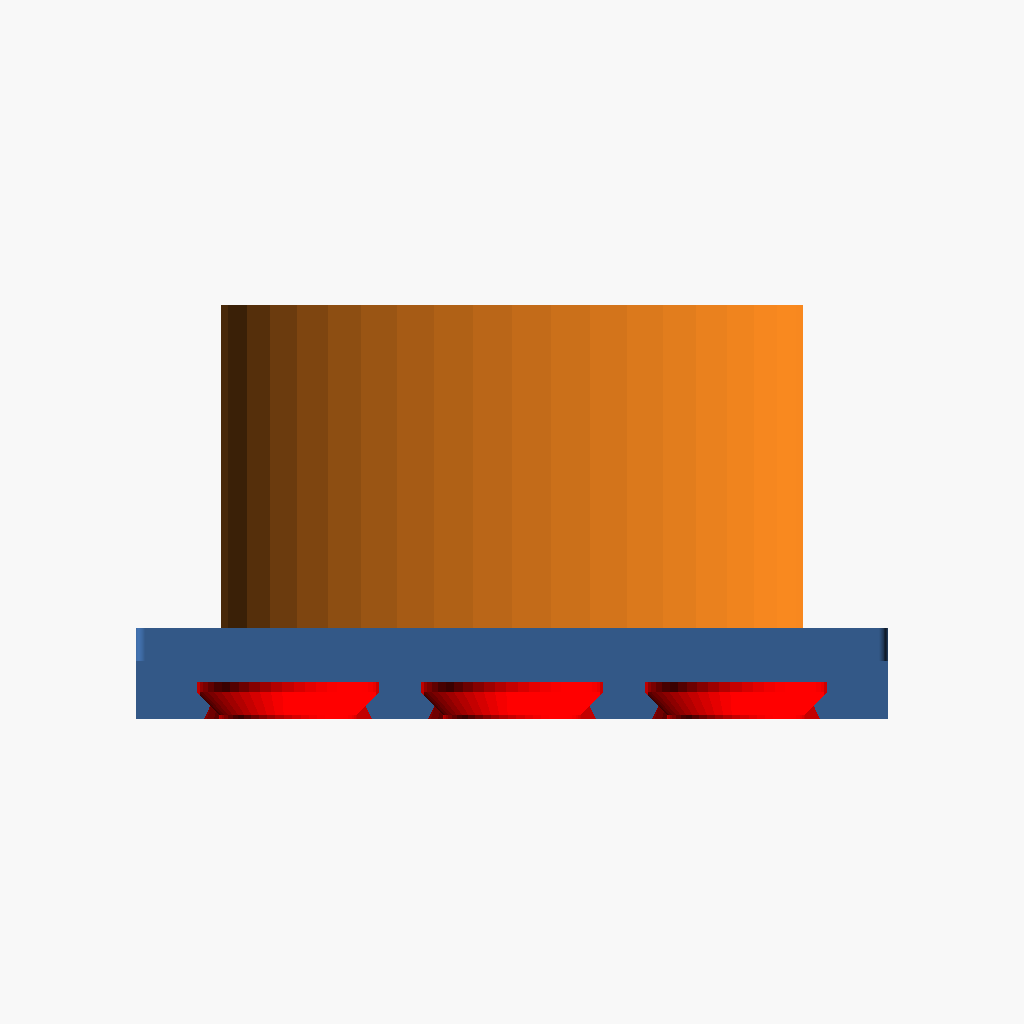
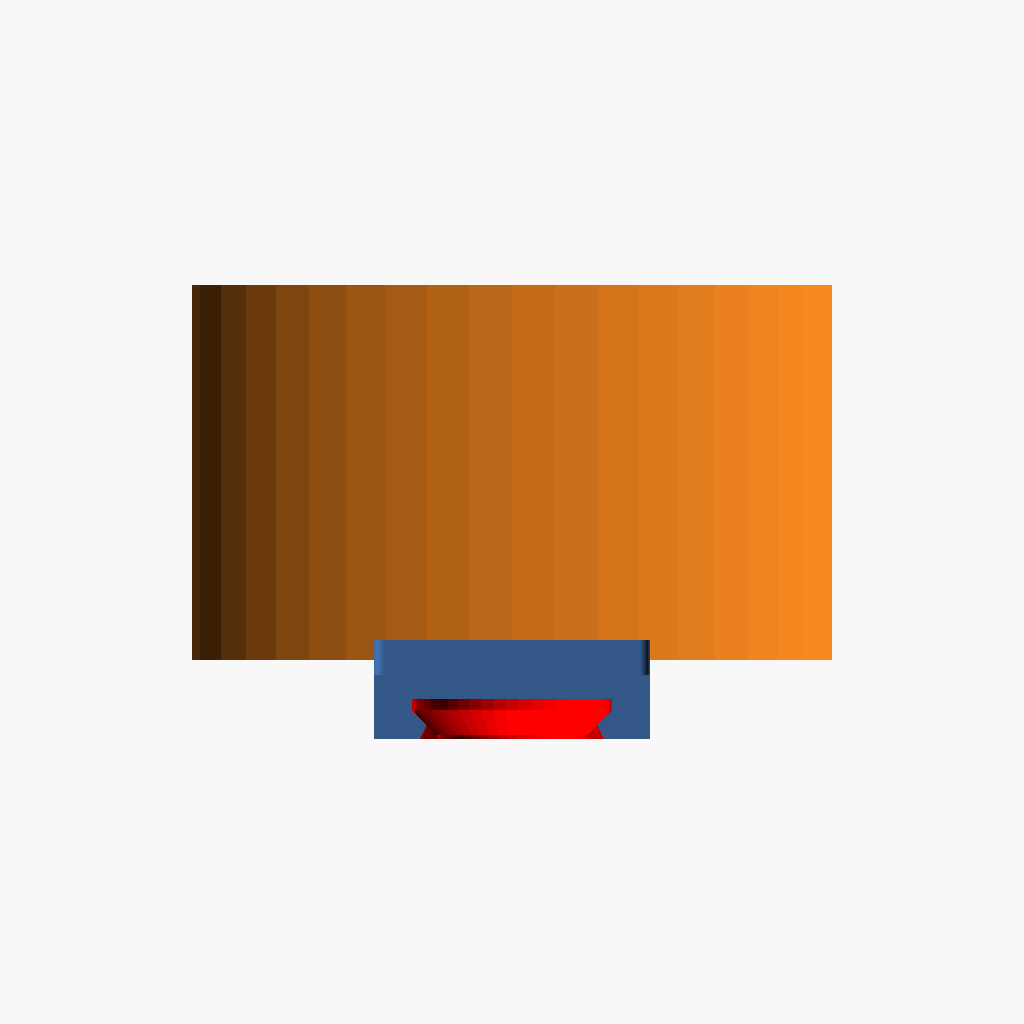
fix(disney_ear_hanger): drop the 3-unit backer floor — minimal saddle-sized plate (pst-gmg0)
Operator design correction on PR #68 (pst-51es): the >=3 openGrid-unit
width floor is wrong for this part. The hung headband is trivially light,
so the backer needs no structural span across the 65mm saddle — a minimal
plate behind the saddle is by design, in the spirit of the original small
adhesive tab.

- Remove the saddle-spanning floor: units_w = max(width_units, 1) (just a
  >=1 whole-tile guard). width_units now @param min=1, default=1 — a single
  openGridSnap / one Multiconnect slot directly behind the saddle. Range
  keeps its upper end (max=6) and maps 1:1 across 1..6.
- Presets opengrid/multiconnect drop to width_units=1 to match.
- Invariants: _variant_geom mirrors the floor removal; the pst-51es
  width-liveness guard is reworked (width-range-min) to require @param
  min==1 so width=1 stays reachable and no re-added floor reintroduces a
  dead zone. The footprint check now measures the plate on the panel side
  of the saddle weld (the plate is narrower than the 65mm saddle at the new
  default, so the whole-mesh bbox no longer reads plate width).
- Catalog blurb updated: "minimal whole-tile plate behind the saddle".

Verified at width=1 (both variants): CGAL export watertight + single solid
(backer welds cleanly to the saddle), and at width=6. Renders regenerated
for both backer variants (default tab STL/renders unchanged). Gates:
invariants ok, wasm sweep 27/27, npm test 218/218.

Claude-Session: https://claude.ai/code/session_014MmEwMzgdB9JEABtKo8vQN
[…]

Changed region(s): [[0.125, 0.2812, 0.875, 0.7188]]

diff --git a/lib/models/catalog.ts b/lib/models/catalog.ts
@@ -82,7 +82,7 @@ export const CATALOG: Record<string, CatalogEntry> = {
   disney_ear_hanger: {
     categoryId: "household",
     blurb:
-      "Saddle hanger for Disney-style ear headbands (Mickey/Minnie) — the headbands drape over the saddle arch that projects off the wall. Selectable wall mount (mount_type, one STL each): the default adhesive tab (double-sided tape / 3M Command strip), an openGrid snap backer, or a Multiconnect slot backer for Multiboard rails — the backer replaces the tab at the wall end and is a whole-tile plate sized to cover the saddle, with directional snaps' strong nub up the wall. Remix of a MakerWorld model by SpruceWayne (CC BY-NC-SA 4.0, non-commercial); hangerLength tunes how far the saddle projects, tabSize/thickness/rounding the adhesive tab. See the file header for attribution.",
+      "Saddle hanger for Disney-style ear headbands (Mickey/Minnie) — the headbands drape over the saddle arch that projects off the wall. Selectable wall mount (mount_type, one STL each): the default adhesive tab (double-sided tape / 3M Command strip), an openGrid snap backer, or a Multiconnect slot backer for Multiboard rails — the backer replaces the tab at the wall end and is a minimal whole-tile plate behind the saddle (defaults to a single tile in the spirit of the small tab; widen it with width_units), with directional snaps' strong nub up the wall. Remix of a MakerWorld model by SpruceWayne (CC BY-NC-SA 4.0, non-commercial); hangerLength tunes how far the saddle projects, tabSize/thickness/rounding the adhesive tab. See the file header for attribution.",
   },
   goblu_filter_holder_3x90mm: {
     categoryId: "household",

diff --git a/models/disney_ear_hanger.invariants.py b/models/disney_ear_hanger.invariants.py
@@ -40,7 +40,6 @@ _MC_THICKNESS = 6.5
 _MC_WELD = 0.4
 _PLATE_T = 4.0
 _MIN_WALL = 2.4
-_SADDLE_ACROSS = 65.0
 _SADDLE_UP = 19.0
 _WELD_EMBED = 2.0
 _SADDLE_UP_CENTER = 12.6
@@ -55,8 +54,7 @@ _CONTACT_EPS = 0.6
 def _variant_geom(hanger_length, width_units, height_units, mount_type):
     """Mirror the .scad's mount derivation for one variant."""
     snap_h = 6.8  # full snaps only (invariants render defaults, snap_lite=False)
-    units_w = max(int(width_units),
-                  math.ceil((_SADDLE_ACROSS + 2 * _MIN_WALL) / _SNAP_PITCH))
+    units_w = max(int(width_units), 1)  # no saddle-spanning floor (pst-gmg0)
     units_h = max(int(height_units),
                   math.ceil((_SADDLE_UP + 2 * _MIN_WALL) / _SNAP_PITCH))
     W = units_w * _SNAP_PITCH
@@ -71,8 +69,10 @@ def _variant_geom(hanger_length, width_units, height_units, mount_type):
     seat_z = -mount_tx
     seat_x = _SADDLE_UP_CENTER
     return dict(units_w=units_w, units_h=units_h, W=W, H=H,
+                plate_z0=plate_z0, plate_top=plate_top,
                 mount_tx=mount_tx, mount_tz=mount_tz,
                 seat_x=seat_x, seat_z=seat_z,
+                wall_face_x=wall_face_x,
                 saddle_front_x=hanger_length / 2 + 5)
 
 
@@ -129,34 +129,37 @@ def check(ctx):
     failures.extend(expect_connected_solids(ctx, 1))
 
     hanger_length = float(p.get("hangerLength", 28))
-    width_units = int(p.get("width_units", 3))
+    width_units = int(p.get("width_units", 1))
     height_units = int(p.get("height_units", 2))
     stem = ctx["stem"]
 
-    # --- Width control must be live across its whole declared range
-    # (pst-51es regression guard). The plate grows to a saddle-spanning
-    # FLOOR of ceil((65 + 2*min_wall)/pitch) = 3 tiles via
-    #   units_w = max(width_units, floor_w)
-    # so any width_units value at or below that floor collapses to it and
-    # the backer stops responding to the width slider — the reported bug
-    # (width_units was declared min=1/default=2, making 1/2/3 all render 3
-    # tiles). Cross-check the DECLARED @param min against the floor (two
-    # independent sources of truth: the annotation vs. the geometry): if the
-    # min dips below the floor, the low end of the slider is a dead zone and
-    # a width change there does NOT move the backer bbox. Keep the @param min
-    # pinned at the floor so units_w == width_units 1:1 across the range.
-    floor_w = math.ceil((_SADDLE_ACROSS + 2 * _MIN_WALL) / _SNAP_PITCH)
+    # --- Width control must be live across its whole declared range AND
+    # reach the minimal single-tile backer (pst-gmg0, reversing pst-51es).
+    # The hung headband is trivially light, so the backer has NO
+    # saddle-spanning floor: units_w = max(width_units, 1), a single whole
+    # tile. Two failure modes this guards:
+    #   * @param min < 1 -> sub-tile / no whole snap tile.
+    #   * @param min > 1 -> the width control cannot reach the minimal
+    #     single-snap backer the operator requires (and, if a caller ever
+    #     re-adds a saddle-spanning floor above the min, the low end of the
+    #     slider becomes a dead zone again — the original pst-51es bug).
+    # Pin the declared @param min at the 1-tile structural floor so
+    # units_w == width_units 1:1 across the range and width=1 is reachable.
+    # (The mount-footprint check below is the second, independent source of
+    # truth: it re-derives W from width_units and fails if the export width
+    # does not track it, catching a re-added floor at the default.)
+    floor_w = 1
     declared_min_w = ctx["params"].get("width_units", {}).get("min")
-    if declared_min_w is not None and int(declared_min_w) < floor_w:
+    if declared_min_w is not None and int(declared_min_w) != floor_w:
         failures.append(Failure(
-            "width-range-dead-zone",
-            f"width_units @param min={int(declared_min_w)} is below the "
-            f"{floor_w}-tile saddle-spanning floor: every value "
-            f"{int(declared_min_w)}..{floor_w - 1} collapses to {floor_w} "
-            f"tiles (units_w=max(width_units,{floor_w})), so the width "
-            f"control is ignored across the low end of its range and a width "
-            f"change there leaves the backer bbox unchanged. Raise the "
-            f"@param min to {floor_w} (pst-51es).",
+            "width-range-min",
+            f"width_units @param min={int(declared_min_w)} != the {floor_w}-"
+            f"tile structural floor. The minimal backer has no saddle-"
+            f"spanning floor (pst-gmg0): min<{floor_w} is sub-tile, and "
+            f"min>{floor_w} forbids the minimal single-snap backer (or masks "
+            f"a re-added floor that would collapse the low end of the slider "
+            f"into a dead zone, the pst-51es bug). Pin the @param min to "
+            f"{floor_w} so units_w == width_units 1:1 and width=1 is reachable.",
         ))
 
     # --- Backer variants: openGrid + Multiconnect, each its own export. ---
@@ -184,21 +187,35 @@ def check(ctx):
                 "moved plate breaks the fusion first)",
             ))
 
-        # Footprint = whole openGrid tiles. Print frame: the plate lies flat
-        # on the bed, so its in-plane dims are build-X (= body up-wall, H) and
-        # build-Y (= body across, W).
-        ext = mesh.bounds[1] - mesh.bounds[0]
-        if abs(ext[0] - g["H"]) > 0.5 or abs(ext[1] - g["W"]) > 0.5:
-            failures.append(Failure(
-                f"{mount_type}-footprint",
-                f"backer plate reads {ext[0]:.1f} x {ext[1]:.1f}mm != "
-                f"{g['units_h']}x{g['units_w']} openGrid tiles "
-                f"({g['H']:.1f} x {g['W']:.1f}mm) — off the 28mm grid",
-            ))
-
         # Into the body frame for the wall-end probes.
         bm = _body_frame(mesh, g["seat_x"], g["seat_z"])
         bext = bm.bounds
+
+        # Footprint = whole openGrid tiles (W across x H up-wall). The plate
+        # may now be NARROWER than the 65mm saddle (pst-gmg0 minimal backer),
+        # so the whole-mesh bbox no longer reads the plate width — the saddle
+        # dominates. Measure the plate on the PANEL SIDE of the saddle weld:
+        # the saddle's nearest-wall face is at body x = wall_face_x, and the
+        # plate/snaps live below it, so vertices with x < wall_face_x are
+        # plate + snaps only (saddle-free). The plate corners are the widest
+        # and tallest of those, giving W (body Y) and H (body Z) directly.
+        panel = bm.vertices[bm.vertices[:, 0] < g["wall_face_x"] - 0.5]
+        if len(panel):
+            w_meas = panel[:, 1].max() - panel[:, 1].min()
+            h_meas = panel[:, 2].max() - panel[:, 2].min()
+            if abs(w_meas - g["W"]) > 0.5 or abs(h_meas - g["H"]) > 0.5:
+                failures.append(Failure(
+                    f"{mount_type}-footprint",
+                    f"backer plate reads {w_meas:.1f} x {h_meas:.1f}mm != "
+                    f"{g['units_w']}x{g['units_h']} openGrid tiles "
+                    f"({g['W']:.1f} x {g['H']:.1f}mm) — off the 28mm grid",
+                ))
+        else:
+            failures.append(Failure(
+                f"{mount_type}-footprint",
+                "no plate vertices on the panel side of the saddle weld — "
+                "the backer moved or the frame no longer matches _body_frame()",
+            ))
 
         # Panel plane (snap/slot faces) sits at the most -X face = mount_tx.
         if abs(bext[0][0] - g["mount_tx"]) > 0.6:
